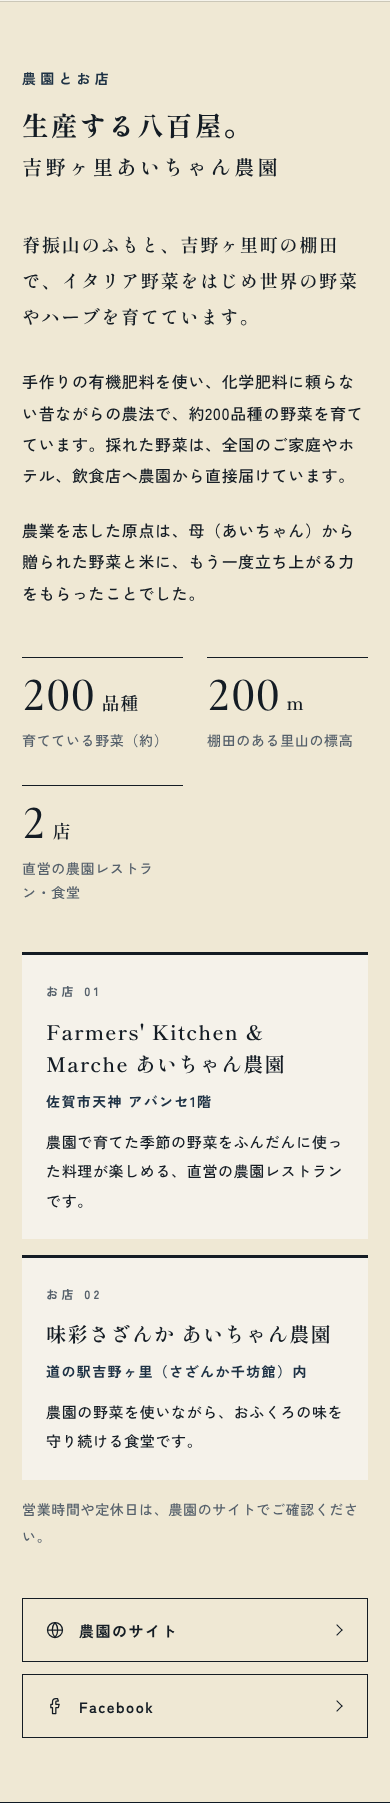
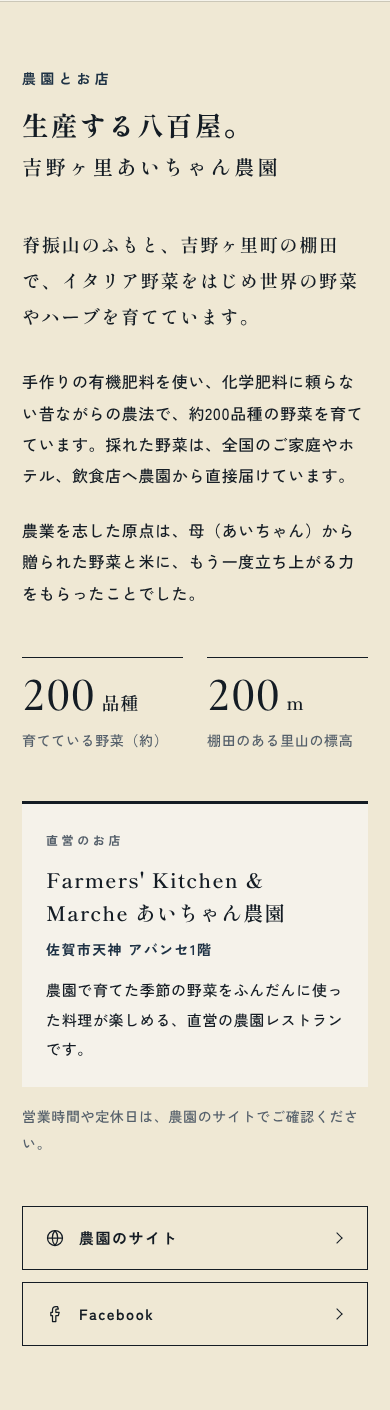
農園の欄：閉店した店舗（味彩さざんか）を削除し、直営は1店舗の表記に
Claude-Session: https://claude.ai/code/session_011pUcFcALCuBGnFo43mF5EL

diff --git a/assets/js/main.js b/assets/js/main.js
@@ -292,7 +292,7 @@
     (f.shops || []).forEach(function (sh, i) {
       if (!sh || !sh.name) return;
       $('#farm-shops').appendChild(el('li', { 'data-reveal': '', style: '--d:' + (i * 0.12) + 's' }, [
-        el('p', { class: 'shop-no', 'aria-hidden': 'true', text: 'お店 ' + pad2(i + 1) }),
+        el('p', { class: 'shop-no', 'aria-hidden': 'true', text: (f.shops.length > 1 ? 'お店 ' + pad2(i + 1) : '直営のお店') }),
         el('h3', { text: sh.name }),
         sh.place ? el('p', { class: 'shop-place', text: sh.place }) : null,
         sh.desc ? el('p', { class: 'shop-desc', text: sh.desc }) : null,

diff --git a/assets/css/style.css b/assets/css/style.css
@@ -475,6 +475,7 @@ h1, h2, h3 {
   .farm-grid { display: grid; grid-template-columns: minmax(0, 5fr) minmax(0, 7fr); column-gap: var(--s7); align-items: start; }
   .farm-body { margin-top: 0; padding-top: 30px; }
   .farm-shops { grid-template-columns: repeat(2, minmax(0, 1fr)); gap: var(--s5); }
+  .farm-shops li:only-child { grid-column: 1 / -1; }
 }
 
 /* ============================================================
